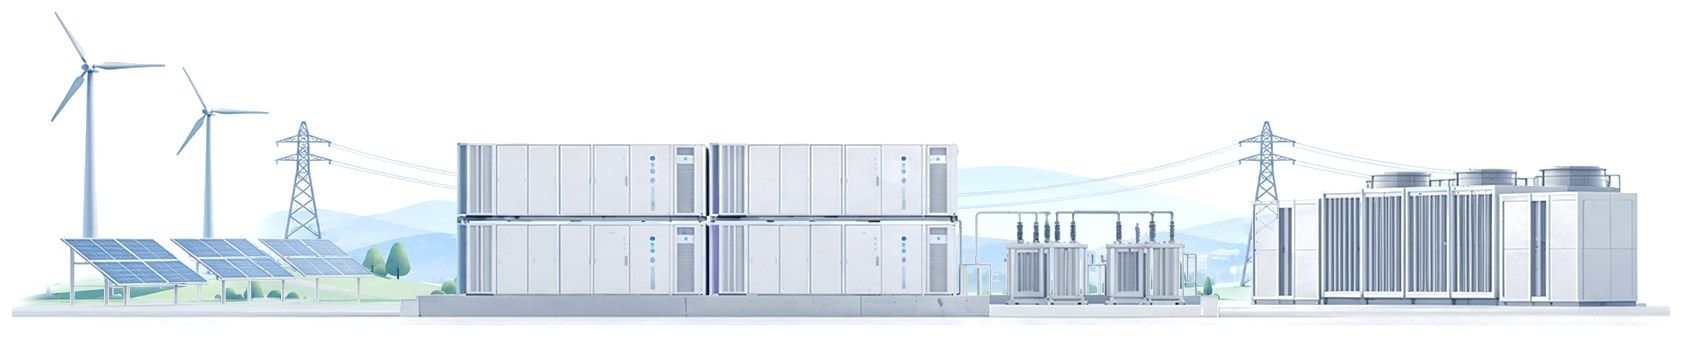
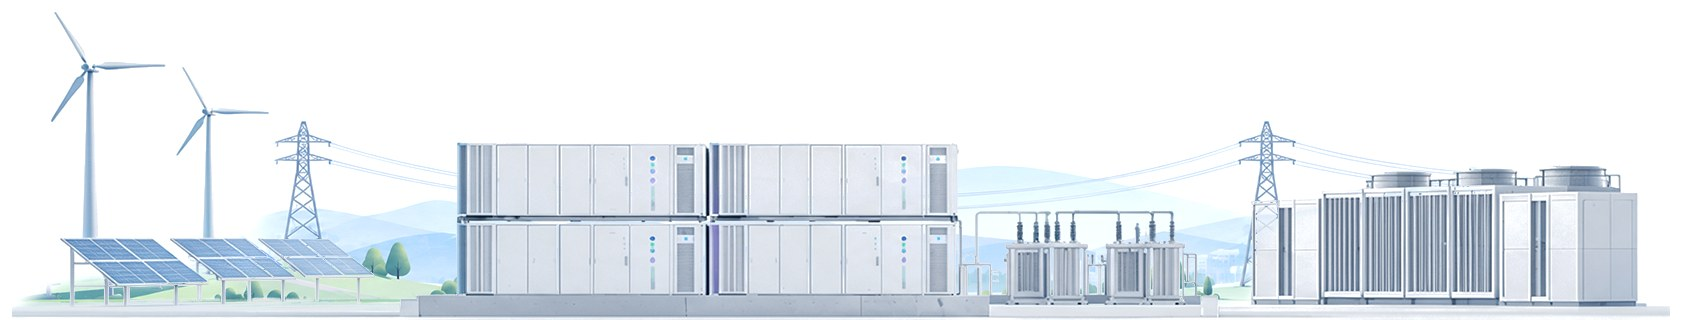
Gray: 시안 C 소개 일러스트 — 에너지 그림 바닥을 카드 띠에 붙임 · 인공지능 그림 키움
에너지: 그림 아래 여유 12 와 옅은 그림자 줄을 잘라(바닥 713 에서 자름, 1682×320) 땅선이 카드 윗선에 닿는다.
인공지능: 넓은 화면에서 그림 칸을 리드 아래 빈 자리로 48 끌어올려 그만큼 크게(리드와 16 이상 떨어짐, 625~985 높이 확인).

diff --git a/apro-gray/business-ai-c.html b/apro-gray/business-ai-c.html
@@ -367,6 +367,9 @@
        낮은 화면에서도 160 은 지키고, 그보다 모자라면 장이 아래로 자란다 */
     .sf-introfig{flex:1 1 0;min-height:160px;
                  margin-left:235px;margin-right:var(--txt-pad-r);margin-bottom:-64px}
+    /* 이 장 그림(충전기 · 차 · 로봇 · 대시보드 · ESS)은 세로가 높아 칸 높이에 눌려 작아 보인다 —
+       리드 아래 빈 자리로 48 끌어올려 그만큼 키운다(2026-09-29 요청) */
+    .sf-introfig{margin-top:-48px}
   }
   /* ===================== 본문 — 인덱스 + 그림 + 아홉 장 =====================
      세 기둥이다. 왼쪽 인덱스와 가운데 그림은 화면에 붙어 있고(sticky), 오른쪽 글만

diff --git a/apro-gray/business-energy-c.html b/apro-gray/business-energy-c.html
@@ -1103,7 +1103,7 @@
     <span class="b">그리드 규모 ESS부터 우주 발사체 전원까지 아우릅니다.</span>
   </p>
   <div class="sf-introfig is-plate">
-    <img src="../assets/intro-energy-infra.jpg" width="1682" height="337"
+    <img src="../assets/intro-energy-infra.jpg" width="1682" height="320"
          alt="에너지 인프라 한눈에 보기 — 태양광·풍력 발전과 ESS 컨테이너, 변전 설비, 수요처가 송전선으로 이어진 그림" decoding="async" />
   </div>
   <ul class="sf-subs">
